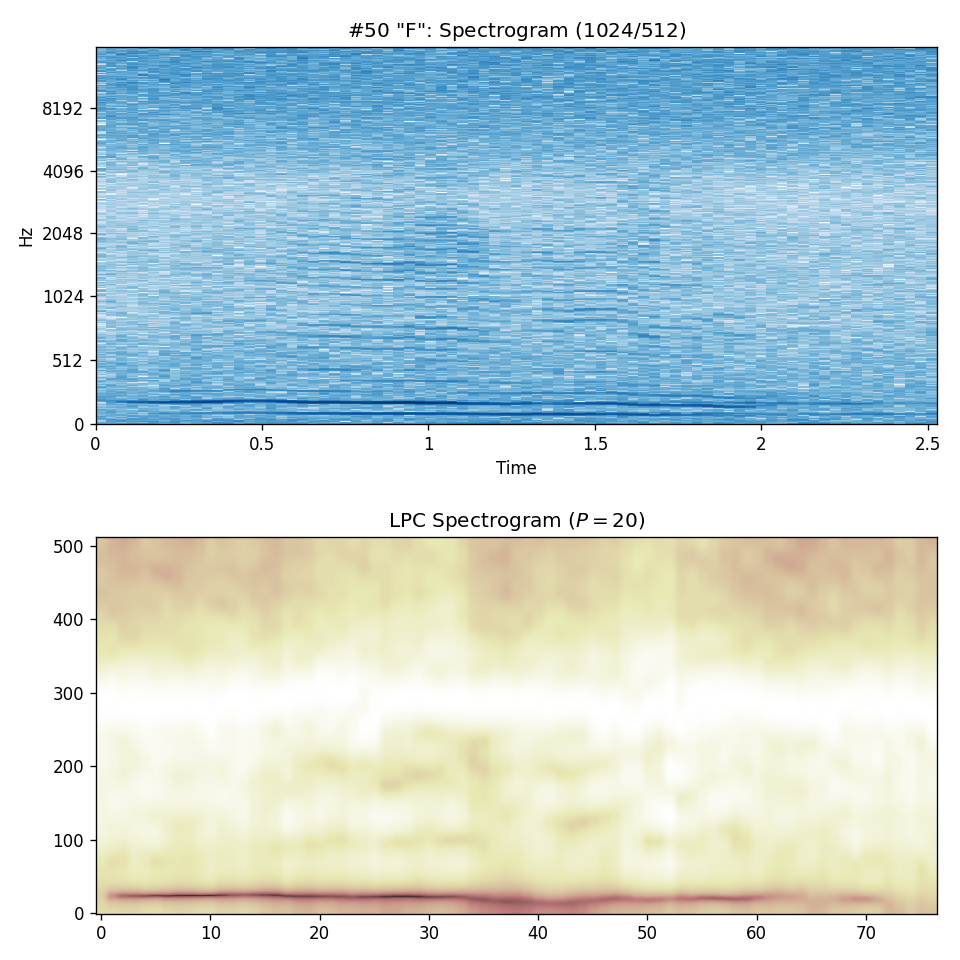
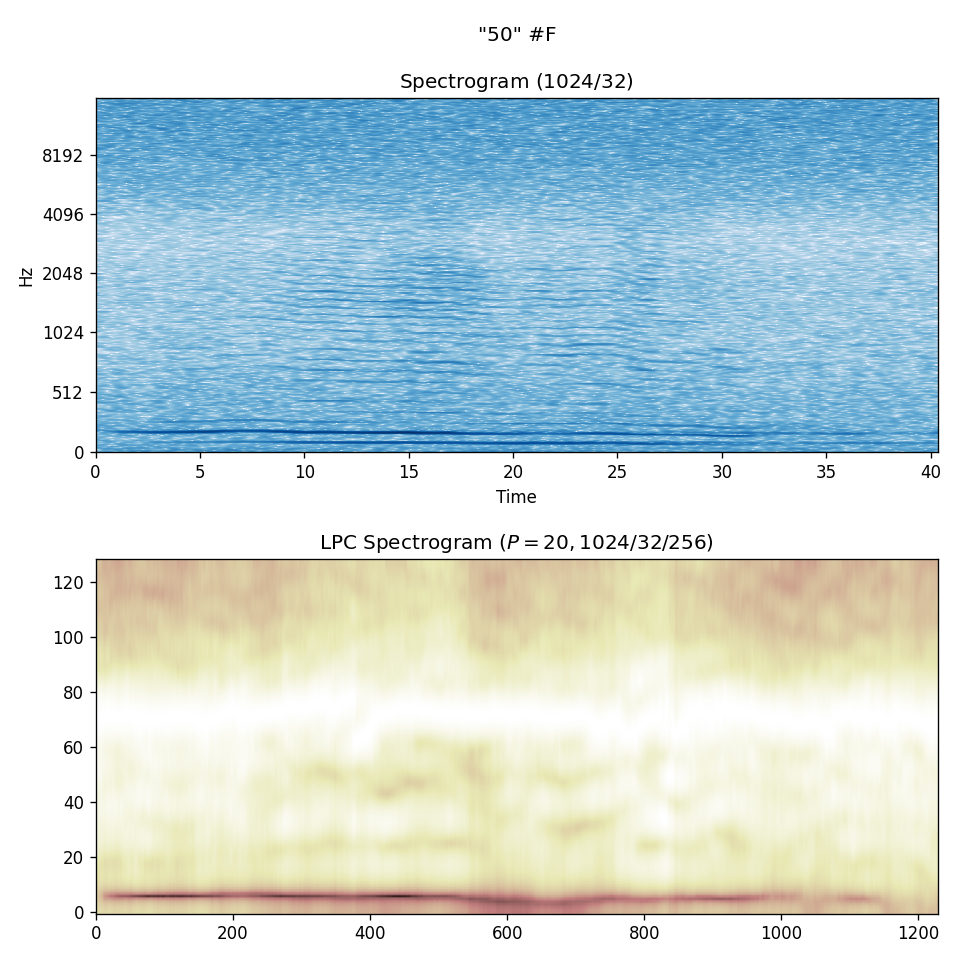
improve spec plots for better comparison

diff --git a/signal-inspection/README.md b/signal-inspection/README.md
@@ -1,8 +1,42 @@
 A DFT/LPC pair of spectrograms per class, selected arbitrarily:
 
-    sgn.plot.spec.py --lpc 20 \
+    sgn.plot.spec.py \
       --signal ../MARS_20161221_000046_SongSession_16kHz_HPF5Hz.wav \
       --segments ../exerc01/MARS_20161221_000046_SongSession_16kHz_HPF5HzNorm_labels.csv \
       --selection 1 3 22 43 50 55 65 108 179 180 188 268 274 477 481 660 681 909 1011 1208 1477 1951 2424 \
+      --window-size 1024 \
+      --window-offset 32 \
+      --lpc 20 \
+      --lpc-window-size 1024 \
+      --lpc-window-offset 32 \
+      --lpc-num-points-per-window 256 \
       --no-plot \
       --out-prefix=spectrograms/arbitrary-selection/
+
+for x in `ls spectrograms/arbitrary-selection`; do
+echo "\![](spectrograms/arbitrary-selection/$x)"
+done >> README.md
+
+![](spectrograms/arbitrary-selection/sgn.plot.spec_A_3.png)
+![](spectrograms/arbitrary-selection/sgn.plot.spec_B_274.png)
+![](spectrograms/arbitrary-selection/sgn.plot.spec_Bd_2424.png)
+![](spectrograms/arbitrary-selection/sgn.plot.spec_Bm_477.png)
+![](spectrograms/arbitrary-selection/sgn.plot.spec_Bu_22.png)
+![](spectrograms/arbitrary-selection/sgn.plot.spec_Bu_481.png)
+![](spectrograms/arbitrary-selection/sgn.plot.spec_C1_909.png)
+![](spectrograms/arbitrary-selection/sgn.plot.spec_C_1.png)
+![](spectrograms/arbitrary-selection/sgn.plot.spec_D_268.png)
+![](spectrograms/arbitrary-selection/sgn.plot.spec_E1_1011.png)
+![](spectrograms/arbitrary-selection/sgn.plot.spec_EG_1208.png)
+![](spectrograms/arbitrary-selection/sgn.plot.spec_E_43.png)
+![](spectrograms/arbitrary-selection/sgn.plot.spec_F_50.png)
+![](spectrograms/arbitrary-selection/sgn.plot.spec_G2_188.png)
+![](spectrograms/arbitrary-selection/sgn.plot.spec_G2_55.png)
+![](spectrograms/arbitrary-selection/sgn.plot.spec_G_179.png)
+![](spectrograms/arbitrary-selection/sgn.plot.spec_H_180.png)
+![](spectrograms/arbitrary-selection/sgn.plot.spec_I2_660.png)
+![](spectrograms/arbitrary-selection/sgn.plot.spec_I3_681.png)
+![](spectrograms/arbitrary-selection/sgn.plot.spec_I4_1477.png)
+![](spectrograms/arbitrary-selection/sgn.plot.spec_I_65.png)
+![](spectrograms/arbitrary-selection/sgn.plot.spec_M_1951.png)
+![](spectrograms/arbitrary-selection/sgn.plot.spec_P_108.png)
